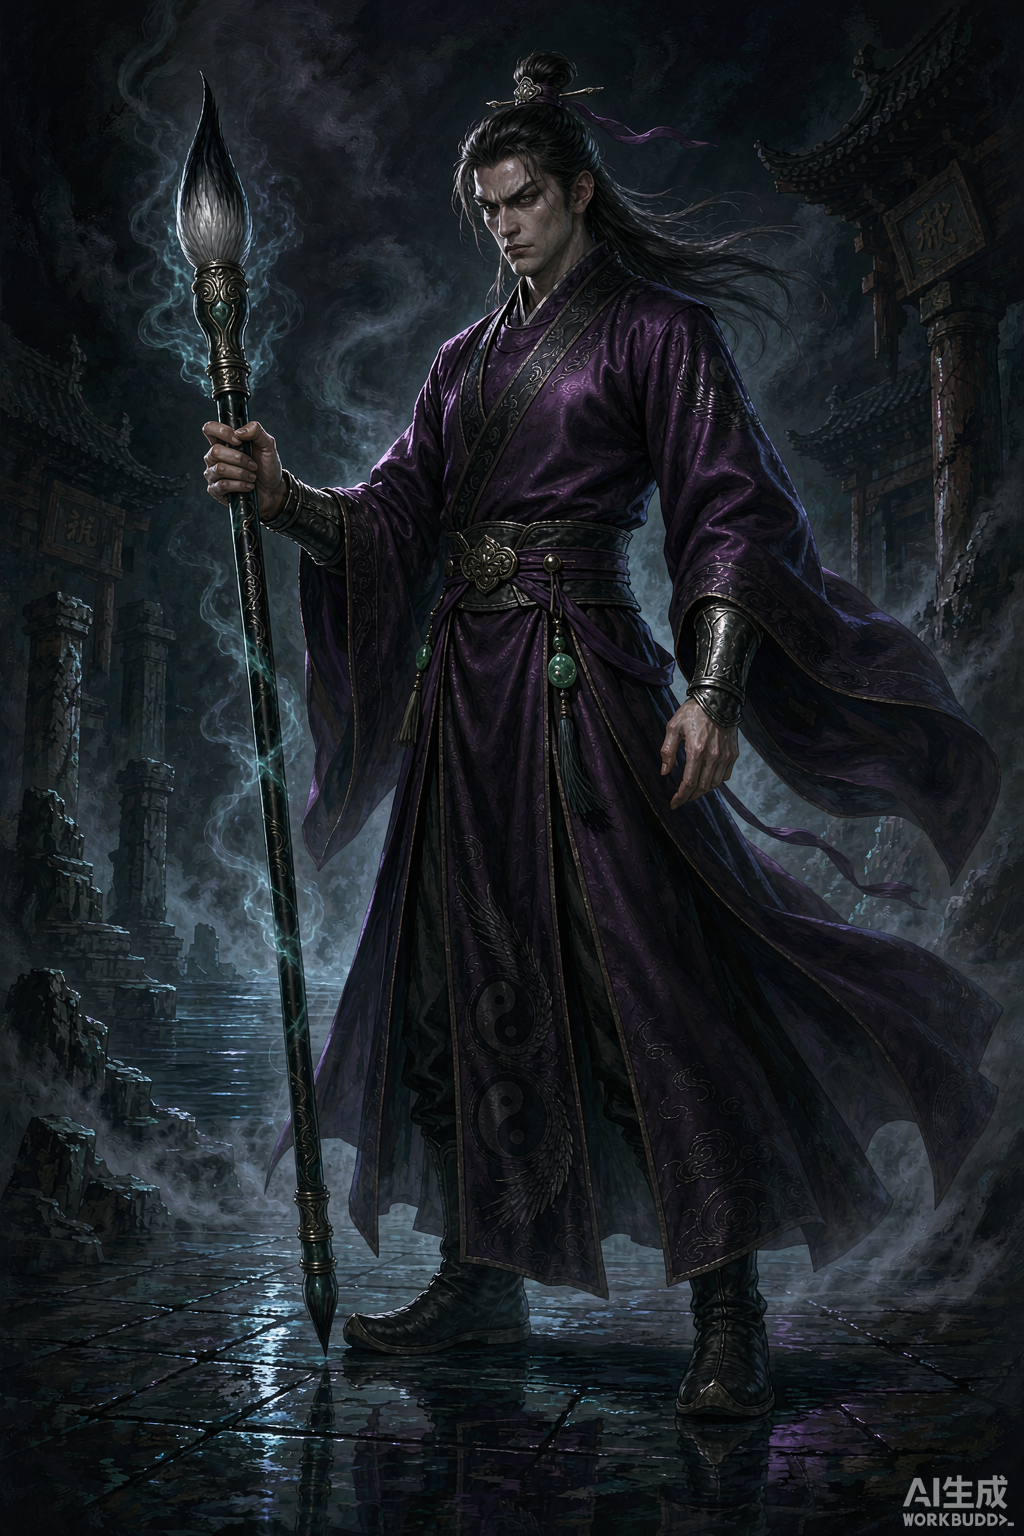
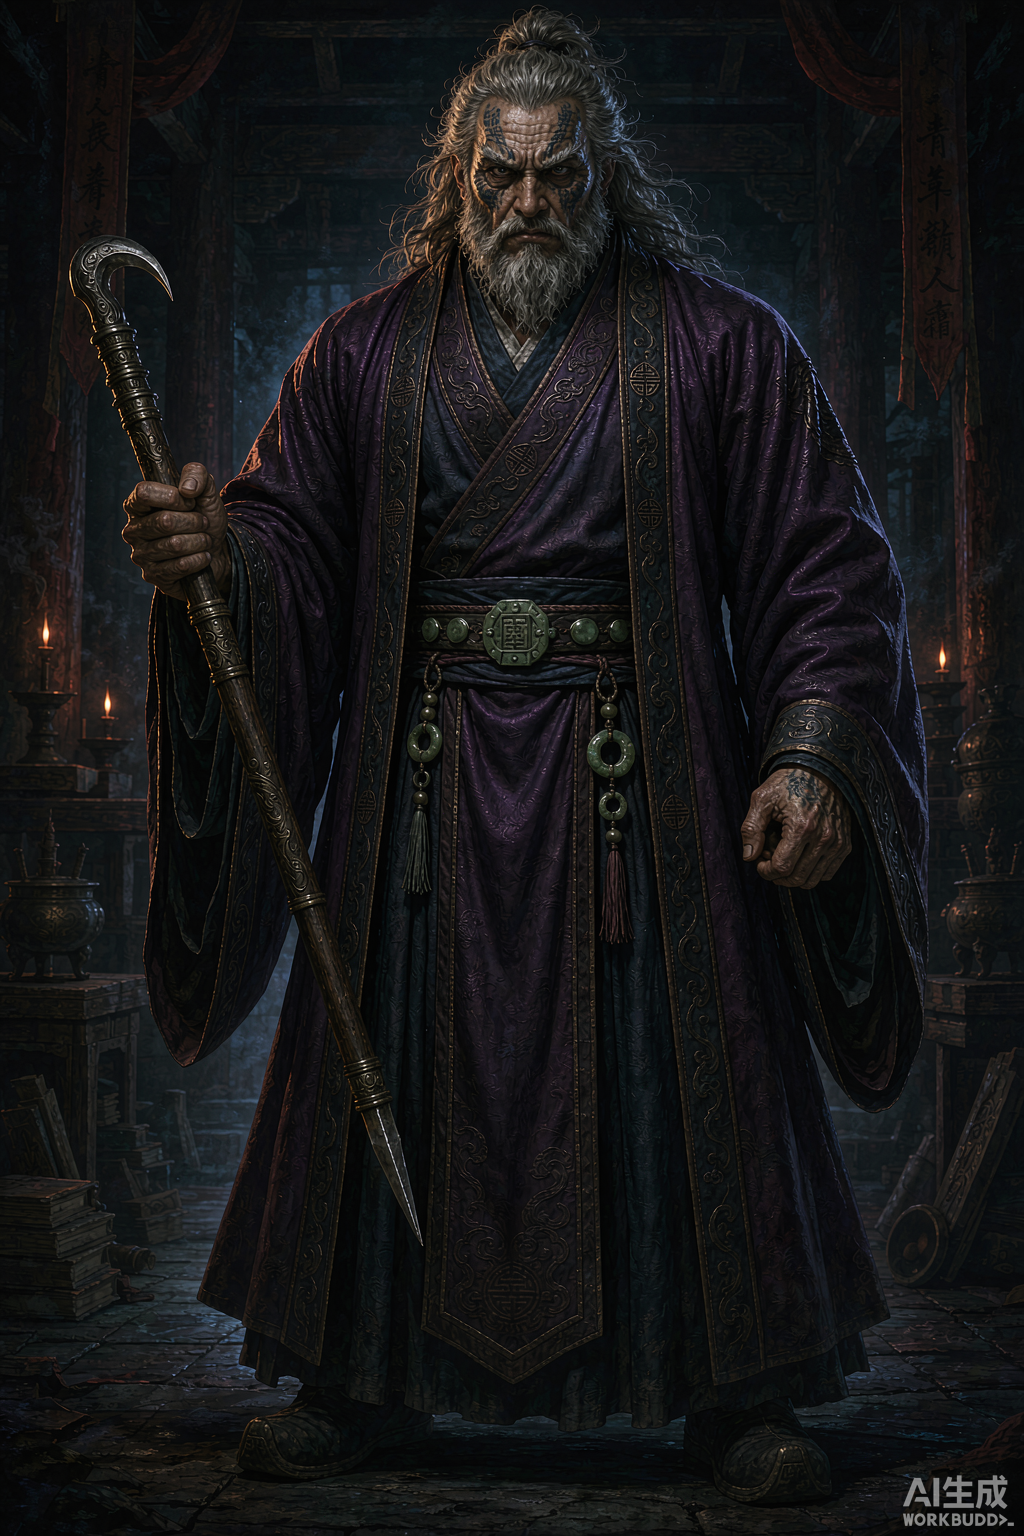
feat(展示): 玄冥二老改老贴合苏有朋版；新增周芷若 11 张大尺度分场景图
- 鹤笔翁/鹿杖客重绘为六十余岁老者（花白须发、皱纹深陷、眼神阴鸷），保留原服装道具构图；旧青年版移入 _backup_20260926/玄冥二老旧版/
- 新增 11 张周芷若：泳池/海边/落地窗/汤泉/高定/拳馆/旗袍/霓虹/天台/卧室/花瓣浴，按场景·姿势·气质分型，关键部位均由衣物或水面遮挡
- _rename_new.py 新增：按时间戳重命名 + 右下角水印检测（本批检测无白色水印）

diff --git a/展示与CG/gen_3d/_rename_new.py b/展示与CG/gen_3d/_rename_new.py
@@ -1,0 +1,55 @@
+# -*- coding: utf-8 -*-
+"""把 _new/ 里本轮新生成的图按内容重命名到 立绘/，并检测右下角水印。
+水印检测：右下角候选区 vs 左下角对照区，比较亮度>230 的像素占比与灰度标准差。
+只检测不修改，避免盲目涂改毁图。
+"""
+import os, glob, shutil
+from PIL import Image
+
+SRC = r"D:/003 5V5 only one rukou 20260628/003 github newsest 20260628/new-acode-repo/展示与CG/gen_3d/_new"
+DST = r"D:/003 5V5 only one rukou 20260628/003 github newsest 20260628/new-acode-repo/展示与CG/gen_3d/立绘"
+
+# (源文件名时间戳, 目标文件名)
+mapping = [
+    ("16-28-20", "鹤笔翁-玄冥二老-苏版老者-立绘-v2.png"),
+    ("16-29-08", "鹿杖客-玄冥二老-苏版老者-立绘-v2.png"),
+    ("16-29-06", "周芷若-泳池黄昏白比基尼-大尺度-v1.png"),
+    ("16-29-37", "周芷若-海边礁石黑比基尼-大尺度-v1.png"),
+    ("16-29-36", "周芷若-落地窗蕾丝睡袍-大尺度-v1.png"),
+    ("16-30-05", "周芷若-汤泉玫瑰雾气-大尺度-v1.png"),
+    ("16-30-08", "周芷若-黑金高定深V开衩-时尚大片-v1.png"),
+    ("16-30-42", "周芷若-拳馆运动汗光-性感向-v1.png"),
+    ("16-30-49", "周芷若-青花旗袍高开衩-古典美-v1.png"),
+    ("16-31-19", "周芷若-月光天台丝绸吊带-性感向-v1.png"),
+    ("16-31-20", "周芷若-雨夜霓虹湿身街拍-性感向-v1.png"),
+    ("16-32-03", "周芷若-晨光卧室真丝衬衫-性感向-v1.png"),
+    ("16-32-44", "周芷若-玫瑰花瓣浴-大尺度-v1.png"),
+]
+
+def stat_region(im, box):
+    g = im.convert("L").crop(box)
+    px = list(g.getdata())
+    n = len(px)
+    bright = sum(1 for p in px if p > 230) / n
+    mean = sum(px) / n
+    std = (sum((p - mean) ** 2 for p in px) / n) ** 0.5
+    return bright, std
+
+moved = []
+for ts, dst in mapping:
+    hits = [f for f in glob.glob(os.path.join(SRC, "*.png")) if ts in os.path.basename(f)]
+    if not hits:
+        print("MISS", ts, dst); continue
+    src = hits[0]
+    out = os.path.join(DST, dst)
+    shutil.copy2(src, out)
+    # 水印检测：右下角候选区 vs 左下角对照区
+    im = Image.open(out)
+    W, H = im.size
+    rb, rs = stat_region(im, (W - 300, H - 75, W - 20, H - 15))
+    lb, ls = stat_region(im, (20, H - 75, 300, H - 15))
+    flag = "有水印?" if (rb - lb > 0.02 and rs - ls > 8) else "ok"
+    moved.append((dst, round(rb, 3), round(rs, 1), round(lb, 3), round(ls, 1), flag))
+    print(f"{dst}  右下亮占比={rb:.3f} 标准差={rs:.1f} | 左下对照 亮占比={lb:.3f} 标准差={ls:.1f}  -> {flag}")
+
+print("\n共处理", len(moved), "张")
